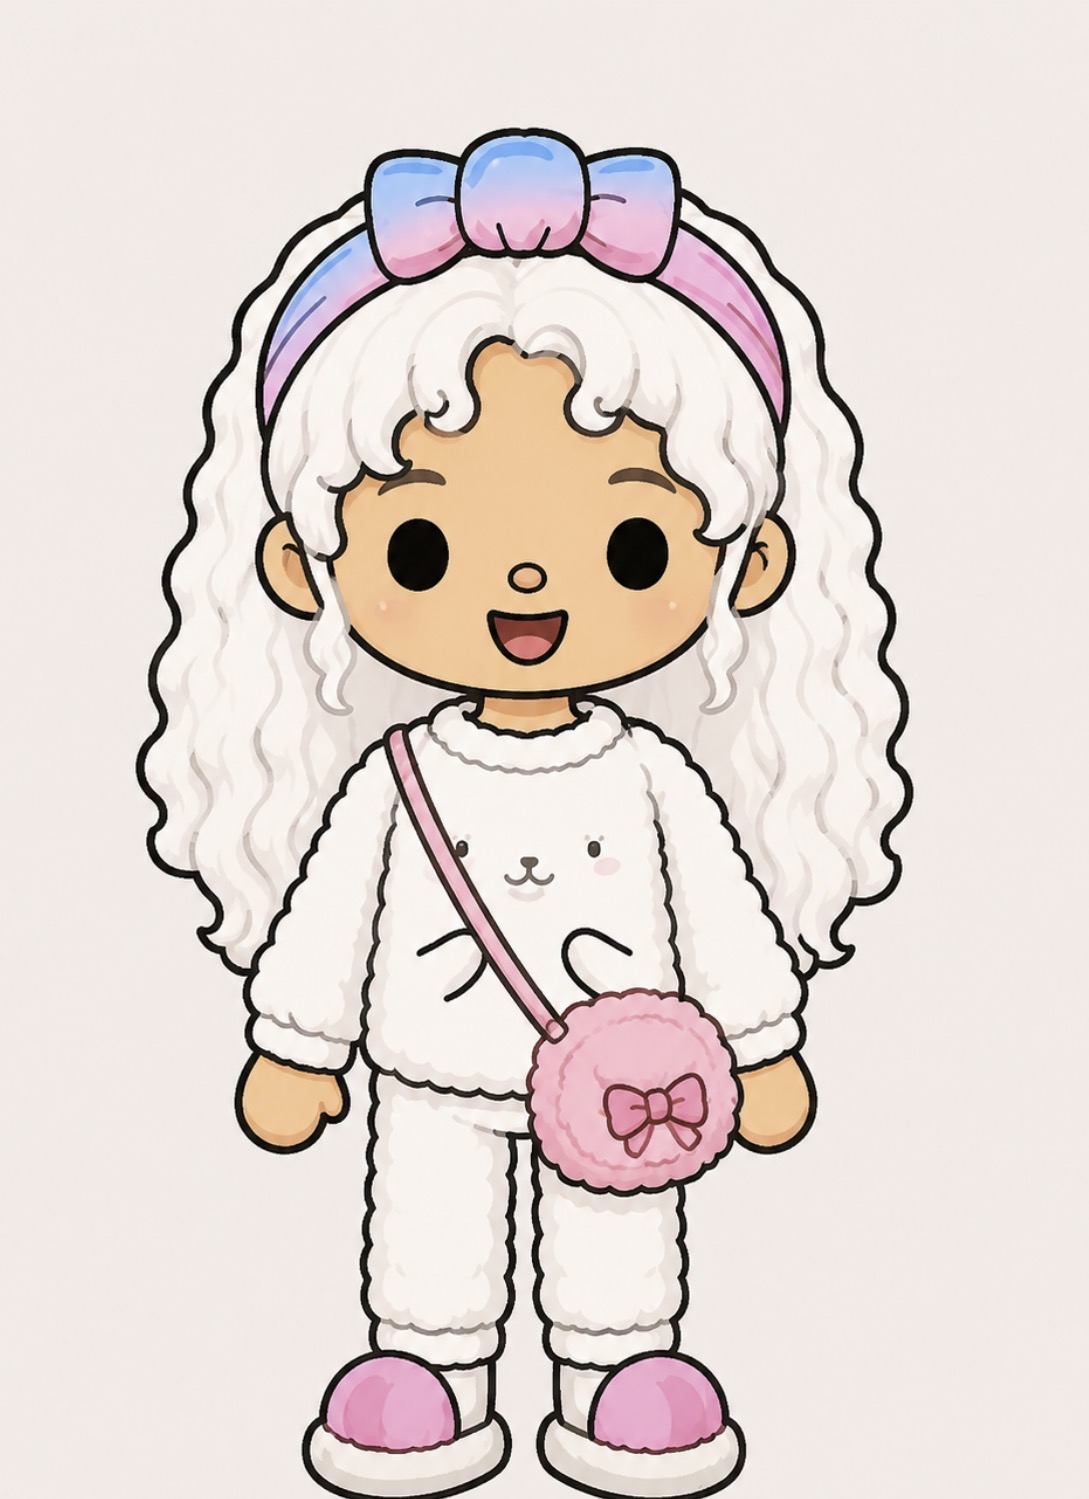
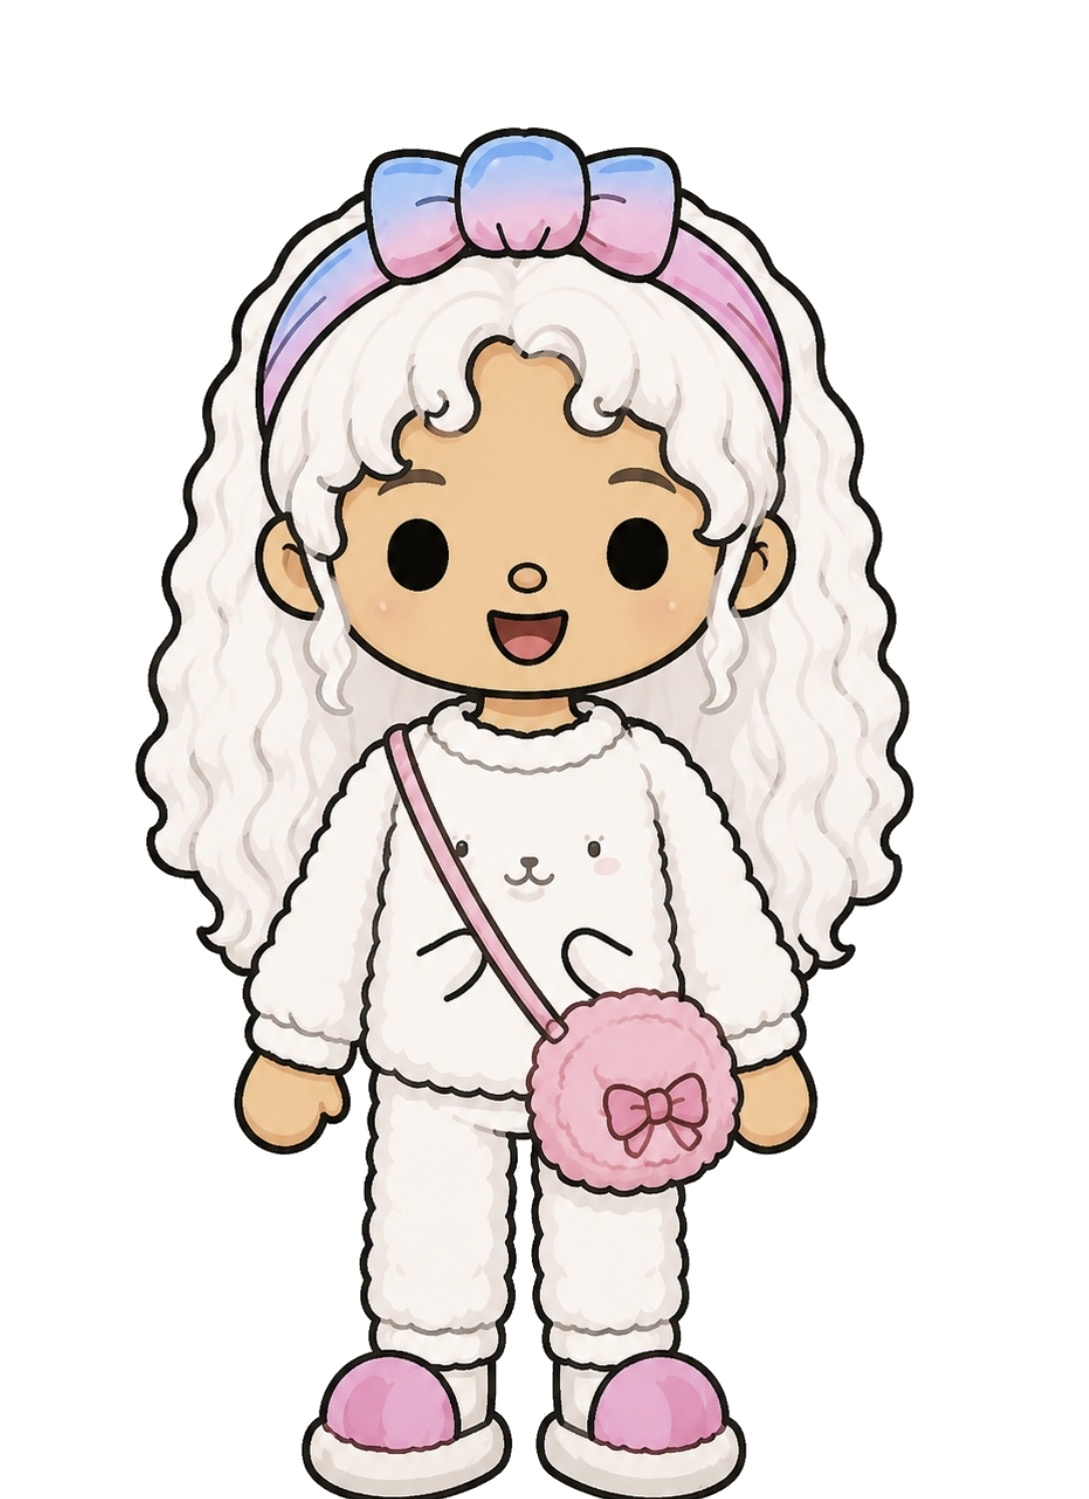
Fix Macaroon's portrait background and add macaron plushie decoration
Portrait had an off-white background that clashed with the card; flood-filled
it to pure white to match every other character's portrait. Added a chibi
holding a giant macaron as a top-right corner decoration, transparent
background, positioned to stay clear of the photo and text.

diff --git a/characters.html b/characters.html
@@ -368,6 +368,7 @@
 
           <!-- ── MACAROON ──────────────────────────────────── -->
           <article class="character-card" id="macaroon" style="position:relative;overflow:visible;">
+            <img src="images/macaroon-deco-plushie.png" alt="" class="macaroon-deco-plushie"/>
             <div class="character-img-placeholder toca-img">
               <img src="images/macaroon.jpg" alt="Macaroon" />
             </div>

diff --git a/css/style.css b/css/style.css
@@ -1553,6 +1553,17 @@ img {
   height: 330px;
 }
 
+.macaroon-deco-plushie {
+  position: absolute;
+  top: -34px;
+  right: 28px;
+  height: 92px;
+  width: auto;
+  transform: rotate(6deg);
+  pointer-events: none;
+  z-index: 2;
+}
+
 #cogimyun .character-img-placeholder.toca-img {
   width: 240px;
   height: 330px;
